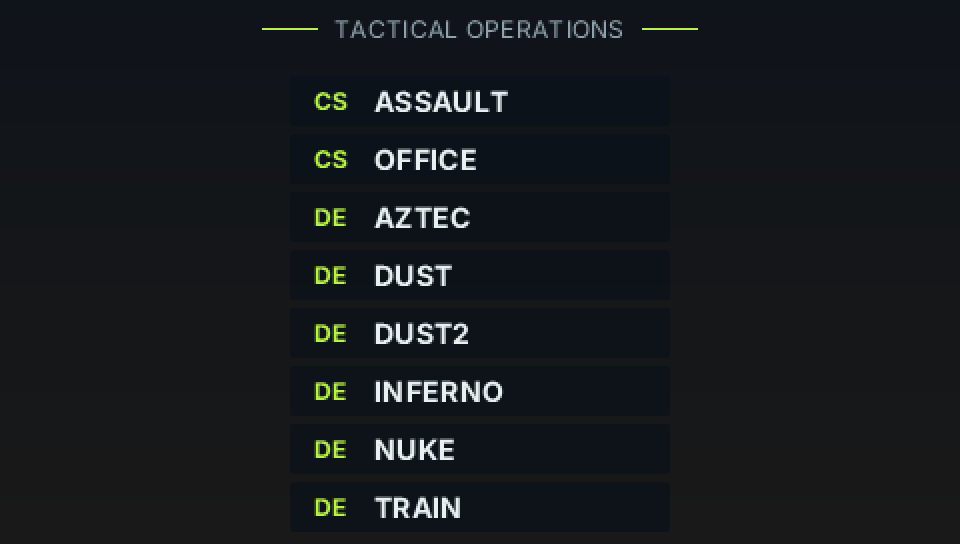
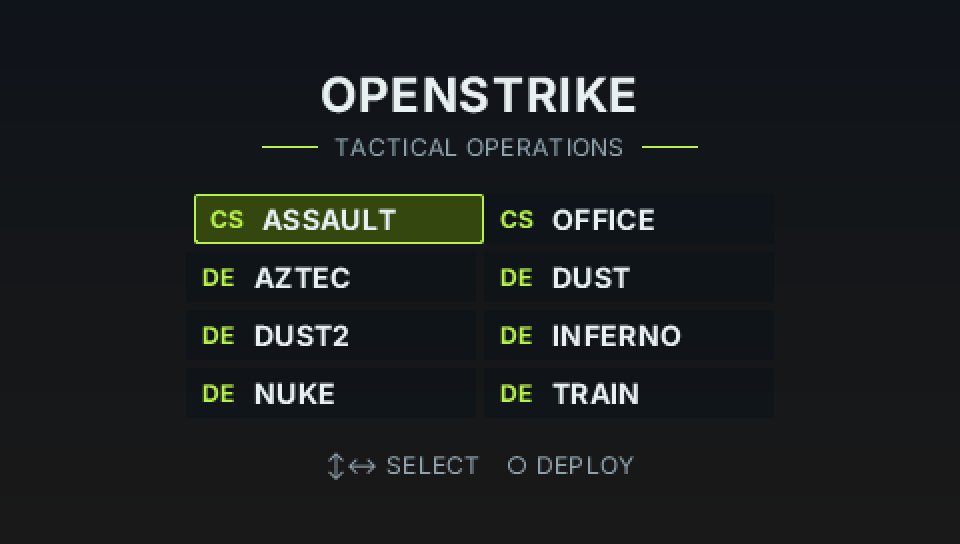
fix(ux): visible selection state in the menu and quit dialog
Neither the menu nor the SELECT dialog showed which item was selected:
focus started null (nothing lit until a d-pad press) and the highlight
was a too-subtle focus:bg on a dark panel.

- Menu: on mount, pushFocusScope autoFocuses the first map and
  pushFocusGrid(columns:2) gives the two-column layout real d-pad
  semantics (↕ moves a whole row, ↔ within it). The selected row now
  reads unmistakably — lime-tinted fill + bright lime border + a small
  slide-in, eased via transition-all.
- Quit dialog: extracted to a component that traps focus on mount
  (STAY lit by default — the safe choice) and restores it on close.
  ↔ moves STAY↔QUIT; STAY's selected state is neutral, QUIT's is a
  bright danger-red, so the destructive choice is obvious.

Gotcha fixed in passing: a whole class string must be ONE literal — the
Tailwind subset bakes class strings as a unit, so
concatenation leaves the runtime string unbaked (no style at all, which
is why the first cut rendered the rows with no boxes).

Verified on PPSSPP: item 0 lit at boot, grid nav moves by row, deploy →
SELECT → STAY-lit/QUIT-lit → quit round-trips. PSP e2e goldens byte-exact
(gameplay unchanged); no vendor bump.

diff --git a/game/hud.tsx b/game/hud.tsx
@@ -18,9 +18,10 @@
 // Class strings are ternaries of FULL literals (the Tailwind subset bakes
 // at build time); `S` picks the compact PSP set or the scaled desktop set.
 
-import { createSignal, Show } from "solid-js";
+import { createSignal, onCleanup, onMount, Show } from "solid-js";
 import { Text, View } from "@pocketjs/framework/components";
 import * as hot from "@pocketjs/framework/hot";
+import { pushFocusScope } from "@pocketjs/framework/input";
 import { onButtonPress, onFrame } from "@pocketjs/framework/lifecycle";
 import { strike, type StrikeState } from "./sdk.ts";
 import { ROUND_FREEZE, ROUND_END_PAUSE, phaseAge } from "./rules.ts";
@@ -466,63 +467,66 @@ export default function Hud() {
 
       {/* Quit dialog (SELECT). CS-style: the world keeps running behind it. */}
       <Show when={dialog()}>
-        <View
-          class="absolute inset-0 justify-center items-center"
-          style={{ bgColor: "#02040788", zIndex: 40 }}
+        <QuitDialog
+          onStay={() => setDialog(false)}
+          onQuit={() => {
+            setDialog(false);
+            strike.toMenu();
+          }}
+        />
+      </Show>
+    </View>
+  );
+}
+
+/** SELECT dialog. On mount it traps focus (STAY lit by default — the safe
+ *  choice); ↔ moves between the two buttons, each with a clear selected
+ *  state (neutral for STAY, danger-red for QUIT), `○` confirms the lit one. */
+function QuitDialog(props: { onStay: () => void; onQuit: () => void }) {
+  let panel!: never;
+  onMount(() => {
+    const dispose = pushFocusScope(panel, { autoFocus: true, restoreFocus: true });
+    onCleanup(dispose);
+  });
+  // Whole class strings must be single literals (the subset bakes them as a
+  // unit — a `base + variant` concat would never resolve at runtime).
+  const label = S >= 2 ? "text-sm font-bold tracking-wide" : "text-xs font-bold tracking-wide";
+  return (
+    <View
+      class="absolute inset-0 justify-center items-center"
+      style={{ bgColor: "#02040788", zIndex: 40 }}
+    >
+      <View class="flex-col items-center gap-2 px-5 py-3 rounded-md" style={{ bgColor: "#0a121aF0" }}>
+        <Text
+          class={S >= 2 ? "text-xl font-bold tracking-wide" : "text-sm font-bold tracking-wide"}
+          style={{ textColor: INK }}
         >
+          RETURN TO MAIN MENU?
+        </Text>
+        <View ref={(el: never) => (panel = el)} class="flex-row gap-2">
           <View
-            class="flex-col items-center gap-2 px-5 py-3 rounded-md"
-            style={{ bgColor: "#0a121aF0" }}
+            focusable
+            onPress={props.onStay}
+            class="px-4 py-1 rounded-sm border-[#00000000] transition-colors duration-100 bg-[#111a24] focus:bg-slate-600 focus:border-slate-300"
           >
-            <Text
-              class={
-                S >= 2 ? "text-xl font-bold tracking-wide" : "text-sm font-bold tracking-wide"
-              }
-              style={{ textColor: INK }}
-            >
-              RETURN TO MAIN MENU?
+            <Text class={label} style={{ textColor: INK }}>
+              STAY
             </Text>
-            <View class="flex-row gap-2">
-              <View
-                focusable
-                onPress={() => setDialog(false)}
-                class="px-4 py-1 rounded-sm focus:bg-slate-700"
-                style={{ bgColor: "#111a24" }}
-              >
-                <Text
-                  class={
-                    S >= 2 ? "text-sm font-bold tracking-wide" : "text-xs font-bold tracking-wide"
-                  }
-                  style={{ textColor: DIM }}
-                >
-                  STAY
-                </Text>
-              </View>
-              <View
-                focusable
-                onPress={() => {
-                  setDialog(false);
-                  strike.toMenu();
-                }}
-                class="px-4 py-1 rounded-sm focus:bg-slate-700"
-                style={{ bgColor: "#111a24" }}
-              >
-                <Text
-                  class={
-                    S >= 2 ? "text-sm font-bold tracking-wide" : "text-xs font-bold tracking-wide"
-                  }
-                  style={{ textColor: RED }}
-                >
-                  QUIT
-                </Text>
-              </View>
-            </View>
-            <Text class="text-xs tracking-wide" style={{ textColor: DIM }}>
-              ○ CONFIRM · SELECT CLOSE
+          </View>
+          <View
+            focusable
+            onPress={props.onQuit}
+            class="px-4 py-1 rounded-sm border-[#00000000] transition-colors duration-100 bg-[#241014] focus:bg-red-800 focus:border-red-400"
+          >
+            <Text class={label} style={{ textColor: RED }}>
+              QUIT
             </Text>
           </View>
         </View>
-      </Show>
+        <Text class="text-xs tracking-wide" style={{ textColor: DIM }}>
+          ↔ SELECT · ○ CONFIRM · SELECT CLOSE
+        </Text>
+      </View>
     </View>
   );
 }

diff --git a/game/menu.tsx b/game/menu.tsx
@@ -1,10 +1,11 @@
-// The main menu — same night-ops language as the HUD, driven entirely by
-// the PocketJS focus system (d-pad moves, ✕ deploys). Maps come from the
-// host (`strike.maps`); picking one issues `strike.loadMap(i)` and the host
-// swaps the world in and flips the phase to "starting".
+// The main menu — same night-ops language as the HUD, driven by the PocketJS
+// focus system. On mount it grabs focus (first map lit) and registers a
+// two-column grid so the d-pad walks the visible layout; `○` deploys the
+// focused map via `strike.loadMap(i)` and the host swaps the world in.
 
-import { createSignal, For, Show } from "solid-js";
+import { createSignal, For, Show, onCleanup, onMount } from "solid-js";
 import { Text, View } from "@pocketjs/framework/components";
+import { pushFocusGrid, pushFocusScope } from "@pocketjs/framework/input";
 import { strike } from "./sdk.ts";
 
 const INK = "#e8f0f2";
@@ -15,6 +16,14 @@ const AMBER = "#fbbf24";
 const vp = (globalThis as { ui?: { __viewport?: { w: number; h: number } } }).ui
   ?.__viewport ?? { w: 480, h: 272 };
 const S = Math.max(1, Math.round(vp.h / 272));
+
+// Selected-row look: a lime-tinted fill + a bright lime border + a small
+// slide-in. The default keeps a transparent 1px border so the focused border
+// doesn't change layout, and transition-all eases the whole thing in. This
+// MUST be one string literal — the Tailwind subset bakes whole class strings,
+// so a concatenation would leave the runtime string unbaked (no style).
+const ROW_BASE =
+  "flex-row items-center gap-2 px-2 py-1 rounded-sm border-[#0a121a00] bg-[#0a121a80] transition-all duration-100 focus:bg-[#33470f] focus:border-[#b8f34a] focus:translate-x-1";
 
 /** "de_dust2" -> { tag: "DE", name: "DUST2" } */
 const pretty = (raw: string): { tag: string; name: string } => {
@@ -30,6 +39,18 @@ export default function MainMenu() {
     setLoading(i);
     strike.loadMap(i);
   };
+
+  // Focus: light the first map on mount and give the grid real 2-column
+  // d-pad semantics (↕ moves a whole row, ↔ moves within it).
+  let grid!: never;
+  onMount(() => {
+    const disposeGrid = pushFocusGrid(grid, { columns: 2, wrap: true });
+    const disposeScope = pushFocusScope(grid, { autoFocus: true });
+    onCleanup(() => {
+      disposeScope();
+      disposeGrid();
+    });
+  });
 
   return (
     <View class="w-full h-full justify-center items-center" style={{ bgColor: "#05080cE8" }}>
@@ -53,15 +74,14 @@ export default function MainMenu() {
         </View>
 
         {/* Map grid: two columns so eight maps + masthead fit 272 px */}
-        <View class="flex-row flex-wrap gap-1 mt-3 justify-center" style={{ width: 300 * S }}>
+        <View
+          ref={(el: never) => (grid = el)}
+          class="flex-row flex-wrap gap-1 mt-3 justify-center"
+          style={{ width: 300 * S }}
+        >
           <For each={strike.maps as string[]}>
             {(raw, i) => (
-              <View
-                focusable
-                onPress={() => deploy(i())}
-                class="flex-row items-center gap-2 px-2 py-1 rounded-sm focus:bg-slate-700"
-                style={{ bgColor: "#0a121aB0", width: 145 * S }}
-              >
+              <View focusable onPress={() => deploy(i())} class={ROW_BASE} style={{ width: 145 * S }}>
                 <Text
                   class={S >= 2 ? "text-sm font-bold" : "text-xs font-bold"}
                   style={{ textColor: LIME, width: 18 * S }}
@@ -91,7 +111,7 @@ export default function MainMenu() {
         {/* Footer hints */}
         <View class="flex-row gap-3 mt-3">
           <Text class="text-xs tracking-wide" style={{ textColor: DIM }}>
-            ↑↓ SELECT
+            ↕↔ SELECT
           </Text>
           <Text class="text-xs tracking-wide" style={{ textColor: DIM }}>
             ○ DEPLOY